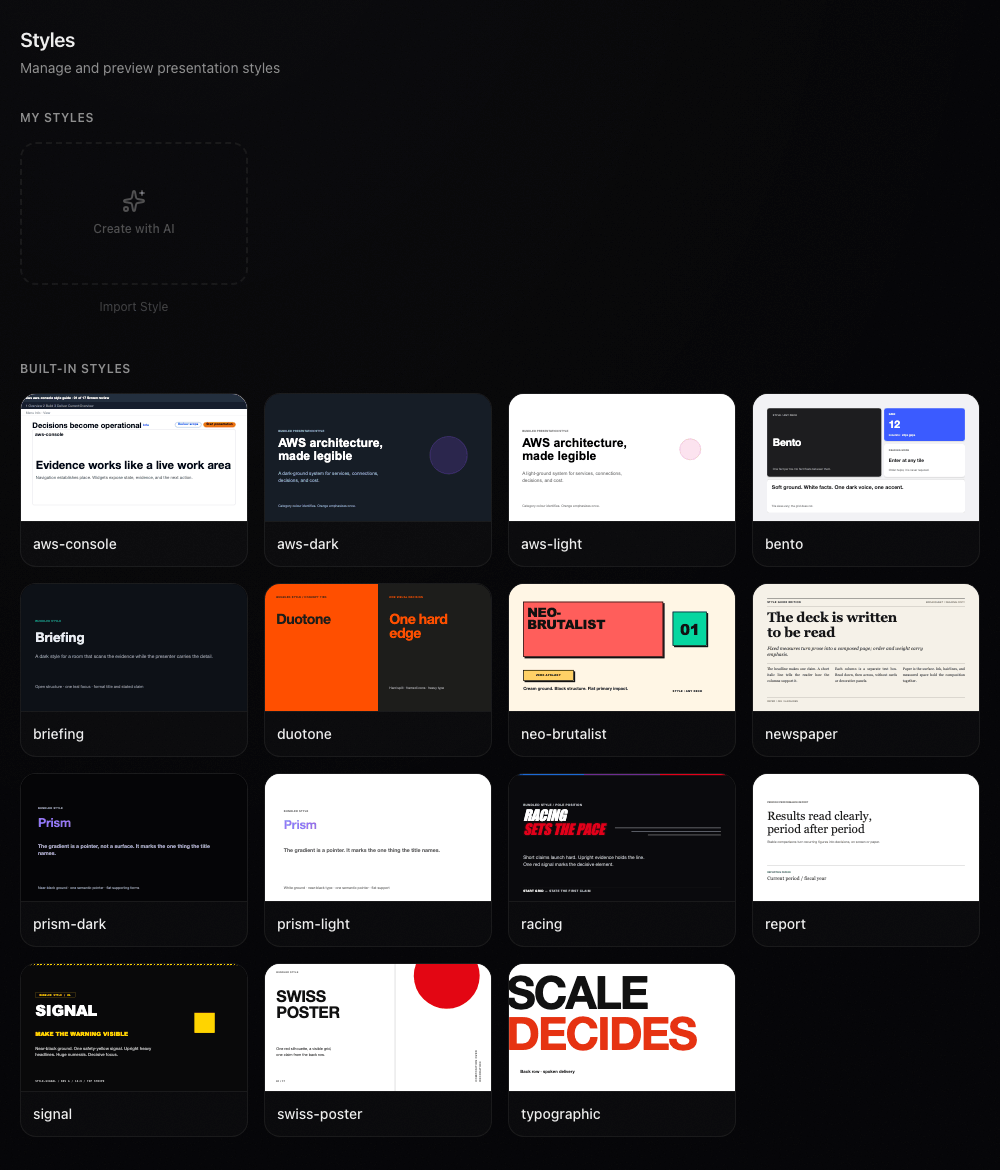
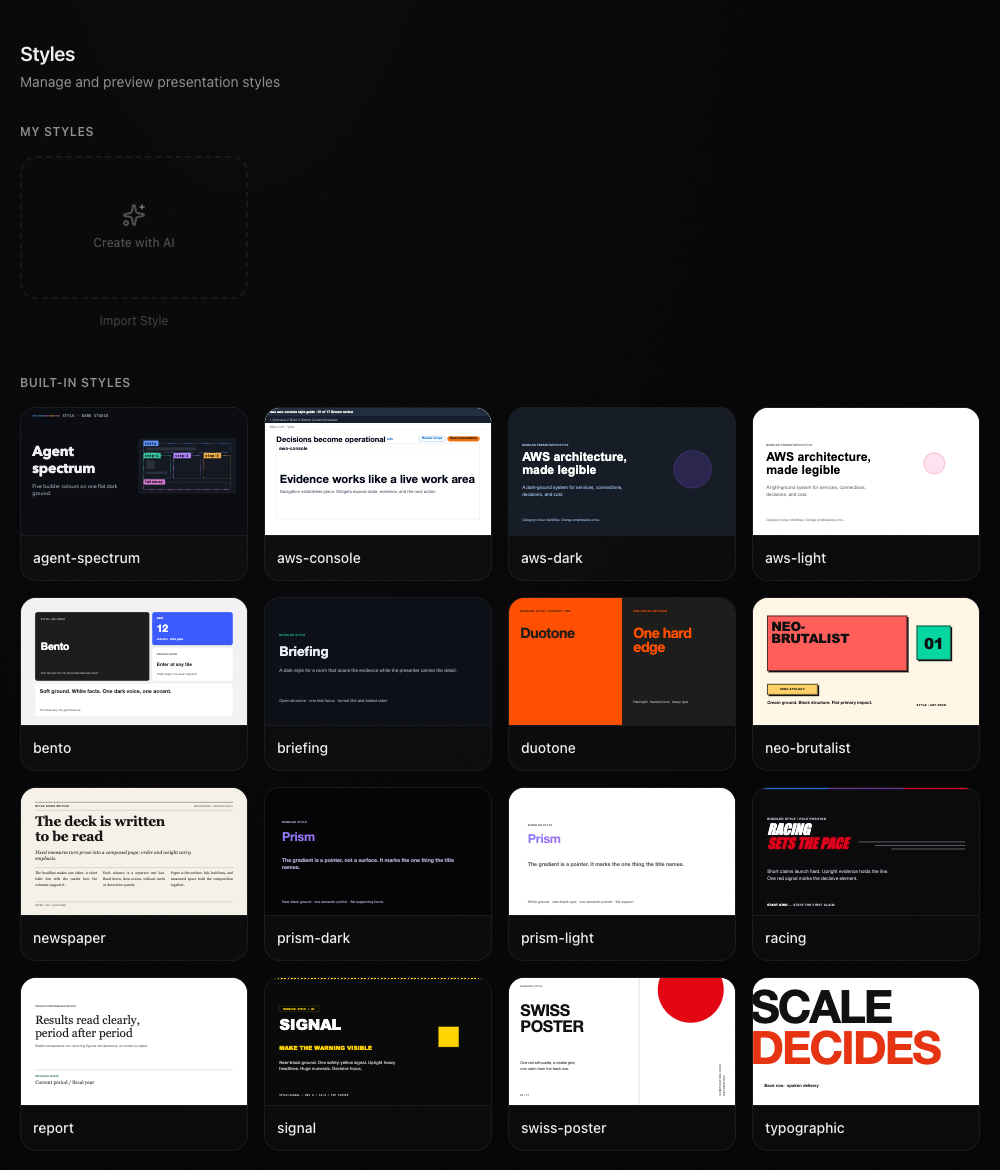
docs: open the README with the key visual, install and style gallery
README.md / README_ja.md: the hero GIF (en / ja) under the badges, the
one-line description, an Install block (macOS / Linux and Windows
one-liners, then: ask your AI agent, kiro-cli login + sdpm webui, or
One-Click Deploy; details stay in Quick Start), then "Same spec, any
style" with the style gallery (English image in both). The old six-slide
sample (example-pptx.png, removed) gives way to the hero stills in the
PowerPoint or HTML section. README_ja keeps the blog note, now after the
gallery.

Screenshots retaken in an isolated Local Web UI (scratch SDPM_DECK_ROOT
and XDG_CONFIG_HOME, 127.0.0.1, stopped afterwards) on a copy of
hero/deck-en: webui-comments.png (two frames on slide 2), webui-deck.png
(grid view, a change request on slide 3 answered by a real agent),
webui-styles.png (now with agent-spectrum). example-html.png is kept.
docs/assets/src/README.md describes the key visual scripts and the new
captures. CHANGELOG [Unreleased] entry under Changed.

Checks: make lint (pass), make test (1848 passed, 18 skipped),
ash scan --mode local --fail-on-findings (pass). web-ui untouched.

diff --git a/README_ja.md b/README_ja.md
@@ -6,16 +6,37 @@
 [![CI](https://github.com/aws-samples/sample-spec-driven-presentation-maker/actions/workflows/ci.yml/badge.svg)](https://github.com/aws-samples/sample-spec-driven-presentation-maker/actions/workflows/ci.yml)
 [![AWS Blog](https://img.shields.io/badge/AWS%20Blog-read-orange?logo=amazonaws)](https://aws.amazon.com/jp/blogs/news/spec-driven-presentation-maker-ja/)
 
+![SDPM 自身を紹介するデッキを Web UI が組み上げるアニメーション。レイアウトパスが表紙の枠を描き、エージェントがそれぞれの色で中身を埋め、続いて 2 枚ずつ作り、最後にグリッドで完成した 7 枚を表示](docs/assets/hero-ja.gif)
+
 手元の資料から、AI エージェントがスライドを作ります。エージェントはまず短いスペック（誰に向けた
 発表か、どんな見た目にするか、各スライドで何を言うか）を書き、それをもとに PowerPoint ファイルか
 ブラウザで見せる HTML プレゼンテーションを組み立てます。
 
+## インストール
+
+```bash
+# macOS / Linux
+curl -fsSL https://raw.githubusercontent.com/aws-samples/sample-spec-driven-presentation-maker/main/scripts/install/dist/install.sh | bash
+```
+
+```powershell
+# Windows（PowerShell。CI での検証のみ）
+irm https://raw.githubusercontent.com/aws-samples/sample-spec-driven-presentation-maker/main/scripts/install/dist/install.ps1 | iex
+```
+
+終わったら、AI エージェントに **「〜のスライドを作って」** と頼むか、最初に 1 度 `kiro-cli login` を
+実行してから `sdpm webui` でブラウザから使います。チームで使うなら、自分の AWS アカウントに
+[ワンクリックデプロイ](#aws-にワンクリックデプロイ)できます。インストーラーが聞くことと、エージェントごとの
+始め方は[クイックスタート](#クイックスタート)にあります。
+
+## 同じスペックを、どのスタイルでも
+
+![「Agree on the content first」のスライドを同梱スタイル 7 つで作ったもの: agent-spectrum、newspaper、aws-dark、neo-brutalist、bento、duotone、swiss-poster](docs/assets/style-gallery-en.png)
+
+*同じ文言の同じスライドを、同梱スタイルのうち 7 つで作ったもの。配色、フォント、レイアウトはスタイルが決め、
+スライドで何を言うかはスペックが決めます。*
+
 > 📝 コンセプトと背景は AWS ブログ [Spec-Driven Presentation Maker — 伝えたいことを先に設計し、スライド構築は AI に任せる](https://aws.amazon.com/jp/blogs/news/spec-driven-presentation-maker-ja/) もあわせてご覧ください。
-
-![イベント駆動アーキテクチャを紹介するサンプルデッキの 6 枚のスライド（同梱の aws-light スタイル）](docs/assets/screenshots/example-pptx.png)
-
-*SDPM で作ったサンプルデッキ。イベント駆動アーキテクチャを紹介する 6 枚で、同梱の `aws-light`
-スタイルを使っています。*
 
 ---
 
@@ -62,6 +83,10 @@
 どのブラウザでもオフラインで開ける `output.html` の 1 ファイルになり、スピーカーノートも使えます。
 HTML のスライドには操作できるグラフも入れられます。
 
+![上のアニメーションのデッキの 7 枚。表紙を大きく、残りの 6 枚をその下に並べたもの](docs/assets/hero-slides-ja.png)
+
+*アニメーションのデッキを `.pptx` にしたもの。同梱の `agent-spectrum` スタイルです。*
+
 ![サワードウのパン作りを紹介する HTML デッキのスライド 3 枚（操作できるグラフを含む）](docs/assets/screenshots/example-html.png)
 
 ### スライドに描いてレビュー
@@ -90,7 +115,7 @@ Web UI やエージェントへの依頼で AI に新しいスタイルを作ら
 | **手元の Web UI** | ブラウザで使うチャットアプリ。スペック、スライド、コメントを並べて扱えます。ローカルで動き、AWS アカウントは不要です。 | Node.js 20+ と、エージェントを動かす Kiro CLI（インストーラーが入れます） | [クイックスタート](#クイックスタート)の後に `sdpm webui` |
 | **AWS 上のチームサーバー** | Web UI と MCP サーバーを自分の AWS アカウントにデプロイします。サインインは Amazon Cognito です。 | AWS アカウント。ワンクリックデプロイならローカルのツールは不要 | [ワンクリックデプロイ](#aws-にワンクリックデプロイ) |
 
-![Web UI のデッキ画面。左にスライド、右にチャット（修正依頼とエージェントの返答）](docs/assets/screenshots/webui-deck.png)
+![Web UI のデッキ画面。左にグリッド表示の 7 枚のスライド、右にチャット（修正依頼とエージェントの返答）](docs/assets/screenshots/webui-deck.png)
 
 ### AWS にワンクリックデプロイ
 

diff --git a/README.md b/README.md
@@ -5,14 +5,35 @@
 [![License: MIT-0](https://img.shields.io/badge/License-MIT--0-yellow.svg)](LICENSE)
 [![CI](https://github.com/aws-samples/sample-spec-driven-presentation-maker/actions/workflows/ci.yml/badge.svg)](https://github.com/aws-samples/sample-spec-driven-presentation-maker/actions/workflows/ci.yml)
 
+![Animation of the Web UI building a deck about SDPM: the layout pass draws the frame of the cover, agents fill it in their colours, then two slides at a time, and the grid shows all seven finished slides](docs/assets/hero-en.gif)
+
 Turn your material into slides with an AI agent. The agent first writes a short spec (who
 the talk is for, how it looks, what each slide says), then builds a PowerPoint file or a
 browser (HTML) presentation from it.
 
-![Six slides of a sample deck about event-driven architecture, made with the bundled aws-light style](docs/assets/screenshots/example-pptx.png)
+## Install
 
-*A sample deck made with SDPM: a six-slide introduction to event-driven architecture, in
-the bundled `aws-light` style.*
+```bash
+# macOS / Linux
+curl -fsSL https://raw.githubusercontent.com/aws-samples/sample-spec-driven-presentation-maker/main/scripts/install/dist/install.sh | bash
+```
+
+```powershell
+# Windows (PowerShell; verified in CI only)
+irm https://raw.githubusercontent.com/aws-samples/sample-spec-driven-presentation-maker/main/scripts/install/dist/install.ps1 | iex
+```
+
+Then ask your AI agent **"Make slides about …"**, or run `kiro-cli login` once and then
+`sdpm webui` to work in your browser. To run it for a team in your AWS account, use
+[One-Click Deploy](#one-click-deploy-on-aws). The [Quick Start](#quick-start) explains what
+the installer asks and how to start with each agent.
+
+## Same spec, any style
+
+![The slide "Agree on the content first" in seven bundled styles: agent-spectrum, newspaper, aws-dark, neo-brutalist, bento, duotone and swiss-poster](docs/assets/style-gallery-en.png)
+
+*The same slide with the same words in seven of the bundled styles. The style decides the
+colours, fonts and layout; the spec decides what the slide says.*
 
 ---
 
@@ -62,6 +83,10 @@ By default the agent builds a `.pptx` file that you can edit in PowerPoint. Ask 
 deck and you get a single `output.html` that runs in any browser, offline, with speaker
 notes. HTML slides can include interactive charts.
 
+![The seven slides of the deck in the animation above, the cover large and the other six below it](docs/assets/hero-slides-en.png)
+
+*The deck in the animation as a `.pptx`, in the bundled `agent-spectrum` style.*
+
 ![Three slides of a sample HTML deck about sourdough baking, including an interactive chart](docs/assets/screenshots/example-html.png)
 
 ### Review by drawing on the slides
@@ -90,7 +115,7 @@ and create new styles with AI in the Web UI or by asking your agent. See
 | **The Web UI on your computer** | A chat app in your browser, with the spec, the slides and comments side by side. Runs locally, no AWS account. | The installer adds Node.js 20+ and Kiro CLI, which runs the agent | [Quick Start](#quick-start), then `sdpm webui` |
 | **A team server on AWS** | The Web UI and the MCP server deployed in your AWS account, with sign-in through Amazon Cognito. | An AWS account. No local tools for One-Click Deploy | [One-Click Deploy](#one-click-deploy-on-aws) |
 
-![The Web UI deck page: the slides on the left, the chat with a change request and the agent's reply on the right](docs/assets/screenshots/webui-deck.png)
+![The Web UI deck page: the seven slides in the grid view on the left, the chat with a change request and the agent's reply on the right](docs/assets/screenshots/webui-deck.png)
 
 ### One-Click Deploy on AWS
 

diff --git a/docs/assets/src/README.md b/docs/assets/src/README.md
@@ -81,24 +81,39 @@ The `arch_diagram` layout engine draws icon labels at 11 pt and arrow labels at 
 for a full-screen slide. At README width that text is too small to read, so these diagrams
 place their shapes by hand.
 
+## Key visual
+
+`hero/` holds the deck at the top of the README (`deck-en/`, and `deck-ja/` made from it with
+the translate role) with its compose history, and the scripts that turn it into
+`hero-en.gif` / `hero-ja.gif` and the stills `hero-slides-en.png` / `hero-slides-ja.png`:
+`replay.py` places the history again, step by step, in a scratch deck folder that the Local
+Web UI shows, and `record.cjs` records the browser with Playwright. The docstring of
+`replay.py` describes the two parts of the GIF and the requirements.
+
+```bash
+uv run python docs/assets/src/hero/replay.py               # en and ja, GIFs and stills
+uv run python docs/assets/src/hero/replay.py ja --no-stills
+```
+
 ## Screenshots
 
 `docs/assets/screenshots/` is not generated here. Those images are captures of a running Web
 UI and of real decks:
 
-- `example-pptx.png`: the six slides of a PPTX deck made in the Local Web UI on the Fast path
-  (prompt: a 6-slide introduction to event-driven architecture, `@template:blank-light
-  @style:aws-light`), rendered with `pptx_builder.py preview --no-grid` and tiled 3 × 2 with
-  `magick montage`.
-- `example-html.png`: three slides of an HTML deck made the same way with **Build as HTML**
-  (prompt: a 5-slide sourdough introduction with an interactive temperature chart,
-  `@style:prism-light`), from the deck's browser-check PNGs.
-- `webui-comments.png`, `webui-deck.png`, `webui-styles.png`: Playwright captures of the
-  Local Web UI at 1600 px wide, English locale, with a scratch deck folder and config
-  directory so no personal decks or styles appear.
+- `example-html.png`: three slides of an HTML deck made in the Local Web UI on the Fast path
+  with **Build as HTML** (prompt: a 5-slide sourdough introduction with an interactive
+  temperature chart, `@style:prism-light`), from the deck's browser-check PNGs.
+- `webui-comments.png`, `webui-deck.png`: Playwright captures of the Local Web UI at 1600 px
+  wide, English locale, on a copy of `hero/deck-en` (with `preview/` and `output.pptx` built
+  from it) in a scratch deck folder and config directory. The comment frames were drawn with
+  the **Comment** tool; the change request in `webui-deck.png` was sent to a real agent, which
+  had a composer update the slide.
+- `webui-styles.png`: the Styles page of the same Web UI, 1280 px wide, cropped to the page
+  content.
 
 To retake them, run the Local Web UI from a checkout (`cd web-ui && npm run dev:local`) with
-`SDPM_DECK_ROOT` and `XDG_CONFIG_HOME` pointing at empty directories, and use generic topics.
-The slides use Calibri. On a machine without it the browser falls back to a wider font and long
-titles overflow, so the captures load LibreOffice's metric-compatible Carlito under the name
-Calibri, as LibreOffice does for the PNG previews.
+`SDPM_DECK_ROOT` and `XDG_CONFIG_HOME` pointing at scratch directories, and use generic topics.
+The key visual deck uses Avenir Next and Menlo (macOS), so take the Web UI captures on macOS.
+The HTML deck's slides use Calibri. On a machine without it the browser falls back to a wider
+font and long titles overflow, so that capture loaded LibreOffice's metric-compatible Carlito
+under the name Calibri, as LibreOffice does for the PNG previews.

diff --git a/CHANGELOG.md b/CHANGELOG.md
@@ -47,6 +47,13 @@ Entries before v0.5.0 were written retroactively as summaries.
 
 ### Changed
 
+- **The README opens with the key visual.** An animation of the Web UI composing a seven-slide
+  deck about SDPM (in `agent-spectrum`), the install commands right under it, then the same
+  slide in seven bundled styles. The deck page, comment and Styles screenshots are retaken on
+  that deck, and its slides replace the old six-slide sample. The deck, its compose history and
+  the scripts that replay it in the Local Web UI and record the GIF are in
+  `docs/assets/src/hero/`; the gallery is built from `docs/assets/src/style-gallery/`.
+  `README_ja.md` shows the Japanese deck.
 - **Documentation reorganized for first-time readers.** The README now shows example output
   and the three ways to use SDPM (your AI agent, the Web UI on your computer, a team server
   on AWS). `docs/en/getting-started.md` is the user guide; checkout setup and CDK deployment
